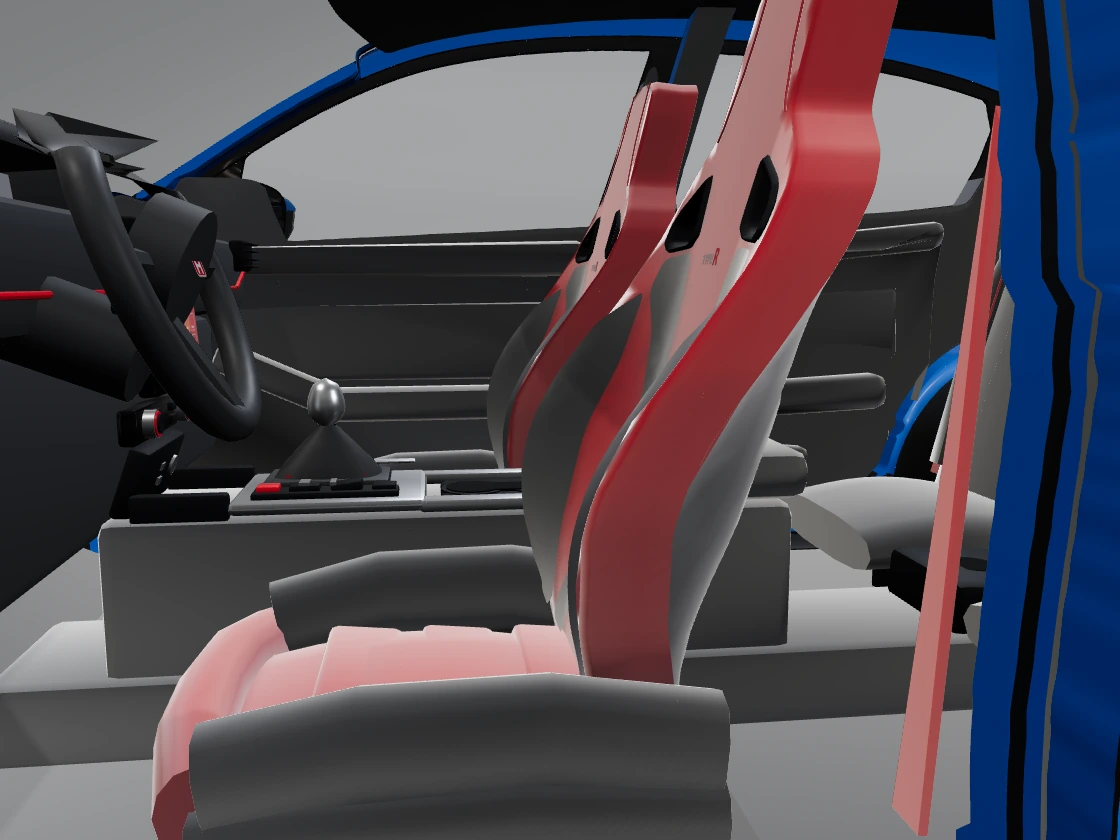
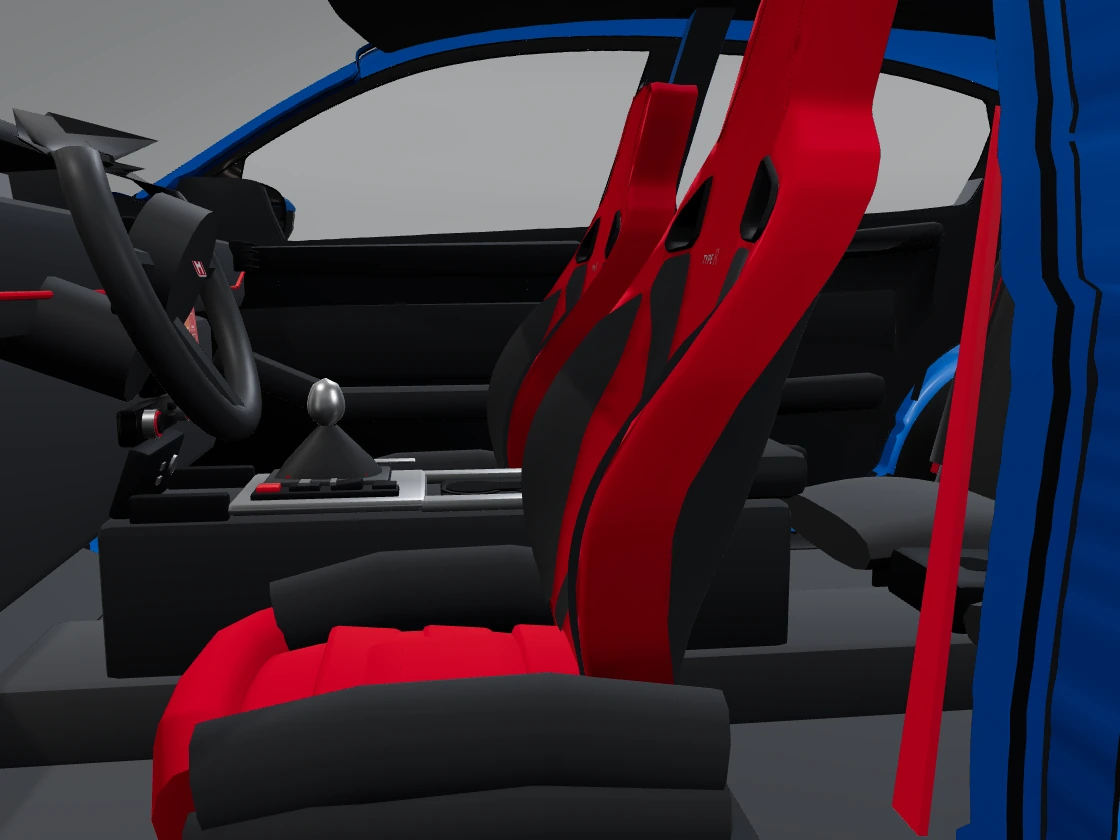
Render dyed cabin fabrics without a silver sheen

diff --git a/honda-civic-type-r/frame-by-frame/index.html b/honda-civic-type-r/frame-by-frame/index.html
@@ -22,7 +22,7 @@
       <img src="frames/fk8-official-01-photo.webp?v=fc7de6fc42" alt="Frame 01 · driver’s side profile, official Honda render" width="1120" height="560" loading="eager" decoding="async">
       <img class="shape-trace" data-src="frames/fk8-official-01-shape.webp?v=72159e95e9" alt="" width="1120" height="560" decoding="async">
     </div><figcaption>American Honda Motor Co. · official 2020 Civic Type R 360° colour-selector render</figcaption></figure>
-    <figure><div class="image-layer"><img src="frames/fk8-official-01-model.webp?v=efb745bb9e" alt="Frame 01 · driver’s side profile, rendered 3D model" width="1120" height="560" loading="eager" decoding="async"></div><figcaption>3D model</figcaption></figure>
+    <figure><div class="image-layer"><img src="frames/fk8-official-01-model.webp?v=b8bf8a8692" alt="Frame 01 · driver’s side profile, rendered 3D model" width="1120" height="560" loading="eager" decoding="async"></div><figcaption>3D model</figcaption></figure>
   </div>
   <label class="trace-control">Outline opacity <input type="range" min="0" max="100" value="85" aria-label="Frame 01 · driver’s side profile, outline opacity"></label>
   <label class="wiper">Photo <input type="range" min="0" max="100" value="50" aria-label="Frame 01 · driver’s side profile, photo and model divider"> 3D</label>
@@ -36,7 +36,7 @@
       <img src="frames/fk8-official-04-photo.webp?v=e36776add0" alt="Frame 04 · front left, 60° off the nose, official Honda render" width="1120" height="560" loading="lazy" decoding="async">
       <img class="shape-trace" data-src="frames/fk8-official-04-shape.webp?v=e9a4180259" alt="" width="1120" height="560" decoding="async">
     </div><figcaption>American Honda Motor Co. · official 2020 Civic Type R 360° colour-selector render</figcaption></figure>
-    <figure><div class="image-layer"><img src="frames/fk8-official-04-model.webp?v=01de2f053b" alt="Frame 04 · front left, 60° off the nose, rendered 3D model" width="1120" height="560" loading="lazy" decoding="async"></div><figcaption>3D model</figcaption></figure>
+    <figure><div class="image-layer"><img src="frames/fk8-official-04-model.webp?v=2697612cb8" alt="Frame 04 · front left, 60° off the nose, rendered 3D model" width="1120" height="560" loading="lazy" decoding="async"></div><figcaption>3D model</figcaption></figure>
   </div>
   <label class="trace-control">Outline opacity <input type="range" min="0" max="100" value="85" aria-label="Frame 04 · front left, 60° off the nose, outline opacity"></label>
   <label class="wiper">Photo <input type="range" min="0" max="100" value="50" aria-label="Frame 04 · front left, 60° off the nose, photo and model divider"> 3D</label>
@@ -50,7 +50,7 @@
       <img src="frames/fk8-official-07-photo.webp?v=91f0c80036" alt="Frame 07 · front left, 30° off the nose, official Honda render" width="1120" height="560" loading="lazy" decoding="async">
       <img class="shape-trace" data-src="frames/fk8-official-07-shape.webp?v=7ac9de474a" alt="" width="1120" height="560" decoding="async">
     </div><figcaption>American Honda Motor Co. · official 2020 Civic Type R 360° colour-selector render</figcaption></figure>
-    <figure><div class="image-layer"><img src="frames/fk8-official-07-model.webp?v=65e428767f" alt="Frame 07 · front left, 30° off the nose, rendered 3D model" width="1120" height="560" loading="lazy" decoding="async"></div><figcaption>3D model</figcaption></figure>
+    <figure><div class="image-layer"><img src="frames/fk8-official-07-model.webp?v=e6e1c852ce" alt="Frame 07 · front left, 30° off the nose, rendered 3D model" width="1120" height="560" loading="lazy" decoding="async"></div><figcaption>3D model</figcaption></figure>
   </div>
   <label class="trace-control">Outline opacity <input type="range" min="0" max="100" value="85" aria-label="Frame 07 · front left, 30° off the nose, outline opacity"></label>
   <label class="wiper">Photo <input type="range" min="0" max="100" value="50" aria-label="Frame 07 · front left, 30° off the nose, photo and model divider"> 3D</label>
@@ -64,7 +64,7 @@
       <img src="frames/fk8-official-10-photo.webp?v=ff2277c011" alt="Frame 10 · front, straight on, official Honda render" width="1120" height="560" loading="lazy" decoding="async">
       <img class="shape-trace" data-src="frames/fk8-official-10-shape.webp?v=22e574aa09" alt="" width="1120" height="560" decoding="async">
     </div><figcaption>American Honda Motor Co. · official 2020 Civic Type R 360° colour-selector render</figcaption></figure>
-    <figure><div class="image-layer"><img src="frames/fk8-official-10-model.webp?v=7e71341dc1" alt="Frame 10 · front, straight on, rendered 3D model" width="1120" height="560" loading="lazy" decoding="async"></div><figcaption>3D model</figcaption></figure>
+    <figure><div class="image-layer"><img src="frames/fk8-official-10-model.webp?v=e256ae9ad0" alt="Frame 10 · front, straight on, rendered 3D model" width="1120" height="560" loading="lazy" decoding="async"></div><figcaption>3D model</figcaption></figure>
   </div>
   <label class="trace-control">Outline opacity <input type="range" min="0" max="100" value="85" aria-label="Frame 10 · front, straight on, outline opacity"></label>
   <label class="wiper">Photo <input type="range" min="0" max="100" value="50" aria-label="Frame 10 · front, straight on, photo and model divider"> 3D</label>
@@ -78,7 +78,7 @@
       <img src="frames/fk8-official-13-photo.webp?v=5ecab79dd4" alt="Frame 13 · front right, 30° off the nose, official Honda render" width="1120" height="560" loading="lazy" decoding="async">
       <img class="shape-trace" data-src="frames/fk8-official-13-shape.webp?v=3c9de5ecaf" alt="" width="1120" height="560" decoding="async">
     </div><figcaption>American Honda Motor Co. · official 2020 Civic Type R 360° colour-selector render</figcaption></figure>
-    <figure><div class="image-layer"><img src="frames/fk8-official-13-model.webp?v=fa6331ae15" alt="Frame 13 · front right, 30° off the nose, rendered 3D model" width="1120" height="560" loading="lazy" decoding="async"></div><figcaption>3D model</figcaption></figure>
+    <figure><div class="image-layer"><img src="frames/fk8-official-13-model.webp?v=671c4fb681" alt="Frame 13 · front right, 30° off the nose, rendered 3D model" width="1120" height="560" loading="lazy" decoding="async"></div><figcaption>3D model</figcaption></figure>
   </div>
   <label class="trace-control">Outline opacity <input type="range" min="0" max="100" value="85" aria-label="Frame 13 · front right, 30° off the nose, outline opacity"></label>
   <label class="wiper">Photo <input type="range" min="0" max="100" value="50" aria-label="Frame 13 · front right, 30° off the nose, photo and model divider"> 3D</label>
@@ -92,7 +92,7 @@
       <img src="frames/fk8-official-16-photo.webp?v=ea4f9e4f2a" alt="Frame 16 · front right, 60° off the nose, official Honda render" width="1120" height="560" loading="lazy" decoding="async">
       <img class="shape-trace" data-src="frames/fk8-official-16-shape.webp?v=6ea3d7f74c" alt="" width="1120" height="560" decoding="async">
     </div><figcaption>American Honda Motor Co. · official 2020 Civic Type R 360° colour-selector render</figcaption></figure>
-    <figure><div class="image-layer"><img src="frames/fk8-official-16-model.webp?v=d379379cc8" alt="Frame 16 · front right, 60° off the nose, rendered 3D model" width="1120" height="560" loading="lazy" decoding="async"></div><figcaption>3D model</figcaption></figure>
+    <figure><div class="image-layer"><img src="frames/fk8-official-16-model.webp?v=81453965b5" alt="Frame 16 · front right, 60° off the nose, rendered 3D model" width="1120" height="560" loading="lazy" decoding="async"></div><figcaption>3D model</figcaption></figure>
   </div>
   <label class="trace-control">Outline opacity <input type="range" min="0" max="100" value="85" aria-label="Frame 16 · front right, 60° off the nose, outline opacity"></label>
   <label class="wiper">Photo <input type="range" min="0" max="100" value="50" aria-label="Frame 16 · front right, 60° off the nose, photo and model divider"> 3D</label>
@@ -106,7 +106,7 @@
       <img src="frames/fk8-official-19-photo.webp?v=60b1907b2c" alt="Frame 19 · passenger side profile, official Honda render" width="1120" height="560" loading="lazy" decoding="async">
       <img class="shape-trace" data-src="frames/fk8-official-19-shape.webp?v=6c9c6546f9" alt="" width="1120" height="560" decoding="async">
     </div><figcaption>American Honda Motor Co. · official 2020 Civic Type R 360° colour-selector render</figcaption></figure>
-    <figure><div class="image-layer"><img src="frames/fk8-official-19-model.webp?v=222b868ff6" alt="Frame 19 · passenger side profile, rendered 3D model" width="1120" height="560" loading="lazy" decoding="async"></div><figcaption>3D model</figcaption></figure>
+    <figure><div class="image-layer"><img src="frames/fk8-official-19-model.webp?v=7a161a5f46" alt="Frame 19 · passenger side profile, rendered 3D model" width="1120" height="560" loading="lazy" decoding="async"></div><figcaption>3D model</figcaption></figure>
   </div>
   <label class="trace-control">Outline opacity <input type="range" min="0" max="100" value="85" aria-label="Frame 19 · passenger side profile, outline opacity"></label>
   <label class="wiper">Photo <input type="range" min="0" max="100" value="50" aria-label="Frame 19 · passenger side profile, photo and model divider"> 3D</label>
@@ -120,7 +120,7 @@
       <img src="frames/fk8-official-22-photo.webp?v=9a2819bbbd" alt="Frame 22 · rear right, 60° off the tail, official Honda render" width="1120" height="560" loading="lazy" decoding="async">
       <img class="shape-trace" data-src="frames/fk8-official-22-shape.webp?v=d86de3a873" alt="" width="1120" height="560" decoding="async">
     </div><figcaption>American Honda Motor Co. · official 2020 Civic Type R 360° colour-selector render</figcaption></figure>
-    <figure><div class="image-layer"><img src="frames/fk8-official-22-model.webp?v=5fb09a5462" alt="Frame 22 · rear right, 60° off the tail, rendered 3D model" width="1120" height="560" loading="lazy" decoding="async"></div><figcaption>3D model</figcaption></figure>
+    <figure><div class="image-layer"><img src="frames/fk8-official-22-model.webp?v=64fe6420c2" alt="Frame 22 · rear right, 60° off the tail, rendered 3D model" width="1120" height="560" loading="lazy" decoding="async"></div><figcaption>3D model</figcaption></figure>
   </div>
   <label class="trace-control">Outline opacity <input type="range" min="0" max="100" value="85" aria-label="Frame 22 · rear right, 60° off the tail, outline opacity"></label>
   <label class="wiper">Photo <input type="range" min="0" max="100" value="50" aria-label="Frame 22 · rear right, 60° off the tail, photo and model divider"> 3D</label>
@@ -134,7 +134,7 @@
       <img src="frames/fk8-official-25-photo.webp?v=8dde5f4c76" alt="Frame 25 · rear right, 30° off the tail, official Honda render" width="1120" height="560" loading="lazy" decoding="async">
       <img class="shape-trace" data-src="frames/fk8-official-25-shape.webp?v=1afd9d18cb" alt="" width="1120" height="560" decoding="async">
     </div><figcaption>American Honda Motor Co. · official 2020 Civic Type R 360° colour-selector render</figcaption></figure>
-    <figure><div class="image-layer"><img src="frames/fk8-official-25-model.webp?v=df4f82182a" alt="Frame 25 · rear right, 30° off the tail, rendered 3D model" width="1120" height="560" loading="lazy" decoding="async"></div><figcaption>3D model</figcaption></figure>
+    <figure><div class="image-layer"><img src="frames/fk8-official-25-model.webp?v=3514409629" alt="Frame 25 · rear right, 30° off the tail, rendered 3D model" width="1120" height="560" loading="lazy" decoding="async"></div><figcaption>3D model</figcaption></figure>
   </div>
   <label class="trace-control">Outline opacity <input type="range" min="0" max="100" value="85" aria-label="Frame 25 · rear right, 30° off the tail, outline opacity"></label>
   <label class="wiper">Photo <input type="range" min="0" max="100" value="50" aria-label="Frame 25 · rear right, 30° off the tail, photo and model divider"> 3D</label>
@@ -148,7 +148,7 @@
       <img src="frames/fk8-official-28-photo.webp?v=dba3b38572" alt="Frame 28 · rear, straight on, official Honda render" width="1120" height="560" loading="lazy" decoding="async">
       <img class="shape-trace" data-src="frames/fk8-official-28-shape.webp?v=6dd25deb65" alt="" width="1120" height="560" decoding="async">
     </div><figcaption>American Honda Motor Co. · official 2020 Civic Type R 360° colour-selector render</figcaption></figure>
-    <figure><div class="image-layer"><img src="frames/fk8-official-28-model.webp?v=8ae12fa9ef" alt="Frame 28 · rear, straight on, rendered 3D model" width="1120" height="560" loading="lazy" decoding="async"></div><figcaption>3D model</figcaption></figure>
+    <figure><div class="image-layer"><img src="frames/fk8-official-28-model.webp?v=d85f13e35c" alt="Frame 28 · rear, straight on, rendered 3D model" width="1120" height="560" loading="lazy" decoding="async"></div><figcaption>3D model</figcaption></figure>
   </div>
   <label class="trace-control">Outline opacity <input type="range" min="0" max="100" value="85" aria-label="Frame 28 · rear, straight on, outline opacity"></label>
   <label class="wiper">Photo <input type="range" min="0" max="100" value="50" aria-label="Frame 28 · rear, straight on, photo and model divider"> 3D</label>
@@ -162,7 +162,7 @@
       <img src="frames/fk8-official-31-photo.webp?v=5465db0a23" alt="Frame 31 · rear left, 30° off the tail, official Honda render" width="1120" height="560" loading="lazy" decoding="async">
       <img class="shape-trace" data-src="frames/fk8-official-31-shape.webp?v=278a184907" alt="" width="1120" height="560" decoding="async">
     </div><figcaption>American Honda Motor Co. · official 2020 Civic Type R 360° colour-selector render</figcaption></figure>
-    <figure><div class="image-layer"><img src="frames/fk8-official-31-model.webp?v=72e10865dd" alt="Frame 31 · rear left, 30° off the tail, rendered 3D model" width="1120" height="560" loading="lazy" decoding="async"></div><figcaption>3D model</figcaption></figure>
+    <figure><div class="image-layer"><img src="frames/fk8-official-31-model.webp?v=160639b4a7" alt="Frame 31 · rear left, 30° off the tail, rendered 3D model" width="1120" height="560" loading="lazy" decoding="async"></div><figcaption>3D model</figcaption></figure>
   </div>
   <label class="trace-control">Outline opacity <input type="range" min="0" max="100" value="85" aria-label="Frame 31 · rear left, 30° off the tail, outline opacity"></label>
   <label class="wiper">Photo <input type="range" min="0" max="100" value="50" aria-label="Frame 31 · rear left, 30° off the tail, photo and model divider"> 3D</label>
@@ -176,7 +176,7 @@
       <img src="frames/fk8-official-34-photo.webp?v=a8928f379c" alt="Frame 34 · rear left, 60° off the tail, official Honda render" width="1120" height="560" loading="lazy" decoding="async">
       <img class="shape-trace" data-src="frames/fk8-official-34-shape.webp?v=fc0c7e183c" alt="" width="1120" height="560" decoding="async">
     </div><figcaption>American Honda Motor Co. · official 2020 Civic Type R 360° colour-selector render</figcaption></figure>
-    <figure><div class="image-layer"><img src="frames/fk8-official-34-model.webp?v=1d077f6965" alt="Frame 34 · rear left, 60° off the tail, rendered 3D model" width="1120" height="560" loading="lazy" decoding="async"></div><figcaption>3D model</figcaption></figure>
+    <figure><div class="image-layer"><img src="frames/fk8-official-34-model.webp?v=4339885726" alt="Frame 34 · rear left, 60° off the tail, rendered 3D model" width="1120" height="560" loading="lazy" decoding="async"></div><figcaption>3D model</figcaption></figure>
   </div>
   <label class="trace-control">Outline opacity <input type="range" min="0" max="100" value="85" aria-label="Frame 34 · rear left, 60° off the tail, outline opacity"></label>
   <label class="wiper">Photo <input type="range" min="0" max="100" value="50" aria-label="Frame 34 · rear left, 60° off the tail, photo and model divider"> 3D</label>
@@ -190,7 +190,7 @@
       <img src="frames/fk8-official-10-front-fascia-photo.webp?v=54d767c311" alt="Front bumper and grille (frame 10), official Honda render" width="500" height="280" loading="lazy" decoding="async">
       <img class="shape-trace" data-src="frames/fk8-official-10-front-fascia-shape.webp?v=3b44c5099e" alt="" width="500" height="280" decoding="async">
     </div><figcaption>American Honda Motor Co. · official 2020 Civic Type R 360° colour-selector render</figcaption></figure>
-    <figure><div class="image-layer"><img src="frames/fk8-official-10-front-fascia-model.webp?v=f0503ae387" alt="Front bumper and grille (frame 10), rendered 3D model" width="500" height="280" loading="lazy" decoding="async"></div><figcaption>3D model</figcaption></figure>
+    <figure><div class="image-layer"><img src="frames/fk8-official-10-front-fascia-model.webp?v=0e133ebbdd" alt="Front bumper and grille (frame 10), rendered 3D model" width="500" height="280" loading="lazy" decoding="async"></div><figcaption>3D model</figcaption></figure>
   </div>
   <label class="trace-control">Outline opacity <input type="range" min="0" max="100" value="85" aria-label="Front bumper and grille (frame 10), outline opacity"></label>
   <label class="wiper">Photo <input type="range" min="0" max="100" value="50" aria-label="Front bumper and grille (frame 10), photo and model divider"> 3D</label>
@@ -204,7 +204,7 @@
       <img src="frames/fk8-official-07-front-corner-photo.webp?v=990b7071b3" alt="Front left corner (frame 07), official Honda render" width="432" height="270" loading="lazy" decoding="async">
       <img class="shape-trace" data-src="frames/fk8-official-07-front-corner-shape.webp?v=edc3f0114a" alt="" width="432" height="270" decoding="async">
     </div><figcaption>American Honda Motor Co. · official 2020 Civic Type R 360° colour-selector render</figcaption></figure>
-    <figure><div class="image-layer"><img src="frames/fk8-official-07-front-corner-model.webp?v=44a165a554" alt="Front left corner (frame 07), rendered 3D model" width="432" height="270" loading="lazy" decoding="async"></div><figcaption>3D model</figcaption></figure>
+    <figure><div class="image-layer"><img src="frames/fk8-official-07-front-corner-model.webp?v=a8e1c9b9b9" alt="Front left corner (frame 07), rendered 3D model" width="432" height="270" loading="lazy" decoding="async"></div><figcaption>3D model</figcaption></figure>
   </div>
   <label class="trace-control">Outline opacity <input type="range" min="0" max="100" value="85" aria-label="Front left corner (frame 07), outline opacity"></label>
   <label class="wiper">Photo <input type="range" min="0" max="100" value="50" aria-label="Front left corner (frame 07), photo and model divider"> 3D</label>
@@ -218,7 +218,7 @@
       <img src="frames/fk8-official-01-front-wheel-photo.webp?v=d8915bfced" alt="Front wheel and brake (frame 01), official Honda render" width="336" height="210" loading="lazy" decoding="async">
       <img class="shape-trace" data-src="frames/fk8-official-01-front-wheel-shape.webp?v=eb18044a56" alt="" width="336" height="210" decoding="async">
     </div><figcaption>American Honda Motor Co. · official 2020 Civic Type R 360° colour-selector render</figcaption></figure>
-    <figure><div class="image-layer"><img src="frames/fk8-official-01-front-wheel-model.webp?v=9c4ad88ee2" alt="Front wheel and brake (frame 01), rendered 3D model" width="336" height="210" loading="lazy" decoding="async"></div><figcaption>3D model</figcaption></figure>
+    <figure><div class="image-layer"><img src="frames/fk8-official-01-front-wheel-model.webp?v=26f213687b" alt="Front wheel and brake (frame 01), rendered 3D model" width="336" height="210" loading="lazy" decoding="async"></div><figcaption>3D model</figcaption></figure>
   </div>
   <label class="trace-control">Outline opacity <input type="range" min="0" max="100" value="85" aria-label="Front wheel and brake (frame 01), outline opacity"></label>
   <label class="wiper">Photo <input type="range" min="0" max="100" value="50" aria-label="Front wheel and brake (frame 01), photo and model divider"> 3D</label>
@@ -232,7 +232,7 @@
       <img src="frames/fk8-official-01-rear-wing-photo.webp?v=ce8770edd2" alt="Wing, fuel flap and taillamp from the side (frame 01), official Honda render" width="352" height="220" loading="lazy" decoding="async">
       <img class="shape-trace" data-src="frames/fk8-official-01-rear-wing-shape.webp?v=f925bea52b" alt="" width="352" height="220" decoding="async">
     </div><figcaption>American Honda Motor Co. · official 2020 Civic Type R 360° colour-selector render</figcaption></figure>
-    <figure><div class="image-layer"><img src="frames/fk8-official-01-rear-wing-model.webp?v=488364ae55" alt="Wing, fuel flap and taillamp from the side (frame 01), rendered 3D model" width="352" height="220" loading="lazy" decoding="async"></div><figcaption>3D model</figcaption></figure>
+    <figure><div class="image-layer"><img src="frames/fk8-official-01-rear-wing-model.webp?v=e380d7c09b" alt="Wing, fuel flap and taillamp from the side (frame 01), rendered 3D model" width="352" height="220" loading="lazy" decoding="async"></div><figcaption>3D model</figcaption></figure>
   </div>
   <label class="trace-control">Outline opacity <input type="range" min="0" max="100" value="85" aria-label="Wing, fuel flap and taillamp from the side (frame 01), outline opacity"></label>
   <label class="wiper">Photo <input type="range" min="0" max="100" value="50" aria-label="Wing, fuel flap and taillamp from the side (frame 01), photo and model divider"> 3D</label>
@@ -246,7 +246,7 @@
       <img src="frames/fk8-official-24-wing-taillamp-photo.webp?v=5f85b40423" alt="Wing and right taillamp (frame 24), official Honda render" width="400" height="250" loading="lazy" decoding="async">
       <img class="shape-trace" data-src="frames/fk8-official-24-wing-taillamp-shape.webp?v=14cdfb0f77" alt="" width="400" height="250" decoding="async">
     </div><figcaption>American Honda Motor Co. · official 2020 Civic Type R 360° colour-selector render</figcaption></figure>
-    <figure><div class="image-layer"><img src="frames/fk8-official-24-wing-taillamp-model.webp?v=901a7cc640" alt="Wing and right taillamp (frame 24), rendered 3D model" width="400" height="250" loading="lazy" decoding="async"></div><figcaption>3D model</figcaption></figure>
+    <figure><div class="image-layer"><img src="frames/fk8-official-24-wing-taillamp-model.webp?v=04350c19ff" alt="Wing and right taillamp (frame 24), rendered 3D model" width="400" height="250" loading="lazy" decoding="async"></div><figcaption>3D model</figcaption></figure>
   </div>
   <label class="trace-control">Outline opacity <input type="range" min="0" max="100" value="85" aria-label="Wing and right taillamp (frame 24), outline opacity"></label>
   <label class="wiper">Photo <input type="range" min="0" max="100" value="50" aria-label="Wing and right taillamp (frame 24), photo and model divider"> 3D</label>
@@ -260,7 +260,7 @@
       <img src="frames/fk8-official-28-rear-fascia-photo.webp?v=a194a433c9" alt="Rear bumper, diffuser and tailpipes (frame 28), official Honda render" width="500" height="280" loading="lazy" decoding="async">
       <img class="shape-trace" data-src="frames/fk8-official-28-rear-fascia-shape.webp?v=764cfe4578" alt="" width="500" height="280" decoding="async">
     </div><figcaption>American Honda Motor Co. · official 2020 Civic Type R 360° colour-selector render</figcaption></figure>
-    <figure><div class="image-layer"><img src="frames/fk8-official-28-rear-fascia-model.webp?v=2b55eadb3b" alt="Rear bumper, diffuser and tailpipes (frame 28), rendered 3D model" width="500" height="280" loading="lazy" decoding="async"></div><figcaption>3D model</figcaption></figure>
+    <figure><div class="image-layer"><img src="frames/fk8-official-28-rear-fascia-model.webp?v=3fb10191db" alt="Rear bumper, diffuser and tailpipes (frame 28), rendered 3D model" width="500" height="280" loading="lazy" decoding="async"></div><figcaption>3D model</figcaption></figure>
   </div>
   <label class="trace-control">Outline opacity <input type="range" min="0" max="100" value="85" aria-label="Rear bumper, diffuser and tailpipes (frame 28), outline opacity"></label>
   <label class="wiper">Photo <input type="range" min="0" max="100" value="50" aria-label="Rear bumper, diffuser and tailpipes (frame 28), photo and model divider"> 3D</label>
@@ -276,7 +276,7 @@
       <img src="frames/fk8-driver-seat-photo.webp?v=e5f7fadac0" alt="Driver’s seat and bolsters, reference photograph" width="1120" height="840" loading="lazy" decoding="async" referrerpolicy="no-referrer">
       <img class="shape-trace" data-src="frames/fk8-driver-seat-shape.webp?v=9b434f32a7" alt="" width="1120" height="840" decoding="async">
     </div><figcaption>mbheritage · Bring a Trailer lot 163,254</figcaption></figure>
-    <figure><div class="image-layer"><img src="frames/fk8-driver-seat-model.webp?v=f0942fc648" alt="Driver’s seat and bolsters, rendered 3D model" width="1120" height="840" loading="lazy" decoding="async"></div><figcaption>3D model</figcaption></figure>
+    <figure><div class="image-layer"><img src="frames/fk8-driver-seat-model.webp?v=d4036d28b0" alt="Driver’s seat and bolsters, rendered 3D model" width="1120" height="840" loading="lazy" decoding="async"></div><figcaption>3D model</figcaption></figure>
   </div>
   <label class="trace-control">Outline opacity <input type="range" min="0" max="100" value="85" aria-label="Driver’s seat and bolsters, outline opacity"></label>
   <label class="wiper">Photo <input type="range" min="0" max="100" value="50" aria-label="Driver’s seat and bolsters, photo and model divider"> 3D</label>
@@ -290,7 +290,7 @@
       <img src="frames/fk8-dashboard-photo.webp?v=7c41434910" alt="Dashboard from the passenger side, reference photograph" width="1120" height="840" loading="lazy" decoding="async" referrerpolicy="no-referrer">
       <img class="shape-trace" data-src="frames/fk8-dashboard-shape.webp?v=5147e409bf" alt="" width="1120" height="840" decoding="async">
     </div><figcaption>mbheritage · Bring a Trailer lot 163,254</figcaption></figure>
-    <figure><div class="image-layer"><img src="frames/fk8-dashboard-model.webp?v=f5cbf97549" alt="Dashboard from the passenger side, rendered 3D model" width="1120" height="840" loading="lazy" decoding="async"></div><figcaption>3D model</figcaption></figure>
+    <figure><div class="image-layer"><img src="frames/fk8-dashboard-model.webp?v=f83c27816d" alt="Dashboard from the passenger side, rendered 3D model" width="1120" height="840" loading="lazy" decoding="async"></div><figcaption>3D model</figcaption></figure>
   </div>
   <label class="trace-control">Outline opacity <input type="range" min="0" max="100" value="85" aria-label="Dashboard from the passenger side, outline opacity"></label>
   <label class="wiper">Photo <input type="range" min="0" max="100" value="50" aria-label="Dashboard from the passenger side, photo and model divider"> 3D</label>
@@ -304,7 +304,7 @@
       <img src="frames/fk8-steering-photo.webp?v=ad62eb0cbc" alt="Steering wheel and instrument panel, reference photograph" width="1120" height="840" loading="lazy" decoding="async" referrerpolicy="no-referrer">
       <img class="shape-trace" data-src="frames/fk8-steering-shape.webp?v=e616a40411" alt="" width="1120" height="840" decoding="async">
     </div><figcaption>mbheritage · Bring a Trailer lot 163,254</figcaption></figure>
-    <figure><div class="image-layer"><img src="frames/fk8-steering-model.webp?v=d2c8e5e296" alt="Steering wheel and instrument panel, rendered 3D model" width="1120" height="840" loading="lazy" decoding="async"></div><figcaption>3D model</figcaption></figure>
+    <figure><div class="image-layer"><img src="frames/fk8-steering-model.webp?v=3070e9a083" alt="Steering wheel and instrument panel, rendered 3D model" width="1120" height="840" loading="lazy" decoding="async"></div><figcaption>3D model</figcaption></figure>
   </div>
   <label class="trace-control">Outline opacity <input type="range" min="0" max="100" value="85" aria-label="Steering wheel and instrument panel, outline opacity"></label>
   <label class="wiper">Photo <input type="range" min="0" max="100" value="50" aria-label="Steering wheel and instrument panel, photo and model divider"> 3D</label>
@@ -318,7 +318,7 @@
       <img src="frames/fk8-center-vents-photo.webp?v=248ec95057" alt="Centre vents and display, reference photograph" width="1120" height="840" loading="lazy" decoding="async" referrerpolicy="no-referrer">
       <img class="shape-trace" data-src="frames/fk8-center-vents-shape.webp?v=149488279a" alt="" width="1120" height="840" decoding="async">
     </div><figcaption>mbheritage · Bring a Trailer lot 163,254</figcaption></figure>
-    <figure><div class="image-layer"><img src="frames/fk8-center-vents-model.webp?v=94ac77ae22" alt="Centre vents and display, rendered 3D model" width="1120" height="840" loading="lazy" decoding="async"></div><figcaption>3D model</figcaption></figure>
+    <figure><div class="image-layer"><img src="frames/fk8-center-vents-model.webp?v=bc273b5bb6" alt="Centre vents and display, rendered 3D model" width="1120" height="840" loading="lazy" decoding="async"></div><figcaption>3D model</figcaption></figure>
   </div>
   <label class="trace-control">Outline opacity <input type="range" min="0" max="100" value="85" aria-label="Centre vents and display, outline opacity"></label>
   <label class="wiper">Photo <input type="range" min="0" max="100" value="50" aria-label="Centre vents and display, photo and model divider"> 3D</label>
@@ -332,7 +332,7 @@
       <img src="frames/fk8-shifter-photo.webp?v=db67e7a7e4" alt="Aluminium shifter and console, reference photograph" width="1120" height="840" loading="lazy" decoding="async" referrerpolicy="no-referrer">
       <img class="shape-trace" data-src="frames/fk8-shifter-shape.webp?v=2fa431022f" alt="" width="1120" height="840" decoding="async">
     </div><figcaption>mbheritage · Bring a Trailer lot 163,254</figcaption></figure>
-    <figure><div class="image-layer"><img src="frames/fk8-shifter-model.webp?v=a68370cada" alt="Aluminium shifter and console, rendered 3D model" width="1120" height="840" loading="lazy" decoding="async"></div><figcaption>3D model</figcaption></figure>
+    <figure><div class="image-layer"><img src="frames/fk8-shifter-model.webp?v=055c6a58b2" alt="Aluminium shifter and console, rendered 3D model" width="1120" height="840" loading="lazy" decoding="async"></div><figcaption>3D model</figcaption></figure>
   </div>
   <label class="trace-control">Outline opacity <input type="range" min="0" max="100" value="85" aria-label="Aluminium shifter and console, outline opacity"></label>
   <label class="wiper">Photo <input type="range" min="0" max="100" value="50" aria-label="Aluminium shifter and console, photo and model divider"> 3D</label>
@@ -346,7 +346,7 @@
       <img src="frames/fk8-rear-seats-photo.webp?v=96e259ecfb" alt="Rear seats, reference photograph" width="1120" height="840" loading="lazy" decoding="async" referrerpolicy="no-referrer">
       <img class="shape-trace" data-src="frames/fk8-rear-seats-shape.webp?v=7a07c0cbf2" alt="" width="1120" height="840" decoding="async">
     </div><figcaption>mbheritage · Bring a Trailer lot 163,254</figcaption></figure>
-    <figure><div class="image-layer"><img src="frames/fk8-rear-seats-model.webp?v=e246148a57" alt="Rear seats, rendered 3D model" width="1120" height="840" loading="lazy" decoding="async"></div><figcaption>3D model</figcaption></figure>
+    <figure><div class="image-layer"><img src="frames/fk8-rear-seats-model.webp?v=b7e021d1cb" alt="Rear seats, rendered 3D model" width="1120" height="840" loading="lazy" decoding="async"></div><figcaption>3D model</figcaption></figure>
   </div>
   <label class="trace-control">Outline opacity <input type="range" min="0" max="100" value="85" aria-label="Rear seats, outline opacity"></label>
   <label class="wiper">Photo <input type="range" min="0" max="100" value="50" aria-label="Rear seats, photo and model divider"> 3D</label>
@@ -360,7 +360,7 @@
       <img src="frames/fk8-cargo-photo.webp?v=a4a994d7f1" alt="Luggage compartment, reference photograph" width="1120" height="840" loading="lazy" decoding="async" referrerpolicy="no-referrer">
       <img class="shape-trace" data-src="frames/fk8-cargo-shape.webp?v=427fdfcaa6" alt="" width="1120" height="840" decoding="async">
     </div><figcaption>mbheritage · Bring a Trailer lot 163,254</figcaption></figure>
-    <figure><div class="image-layer"><img src="frames/fk8-cargo-model.webp?v=b5a526a500" alt="Luggage compartment, rendered 3D model" width="1120" height="840" loading="lazy" decoding="async"></div><figcaption>3D model</figcaption></figure>
+    <figure><div class="image-layer"><img src="frames/fk8-cargo-model.webp?v=63bb7ae557" alt="Luggage compartment, rendered 3D model" width="1120" height="840" loading="lazy" decoding="async"></div><figcaption>3D model</figcaption></figure>
   </div>
   <label class="trace-control">Outline opacity <input type="range" min="0" max="100" value="85" aria-label="Luggage compartment, outline opacity"></label>
   <label class="wiper">Photo <input type="range" min="0" max="100" value="50" aria-label="Luggage compartment, photo and model divider"> 3D</label>
@@ -376,7 +376,7 @@
       <img src="frames/fk8-engine-bay-photo.webp?v=6e0add8634" alt="Open hood and K20C1 engine bay, reference photograph" width="1120" height="840" loading="lazy" decoding="async" referrerpolicy="no-referrer">
       <img class="shape-trace" data-src="frames/fk8-engine-bay-shape.webp?v=20c96627f7" alt="" width="1120" height="840" decoding="async">
     </div><figcaption>mbheritage · Bring a Trailer lot 163,254</figcaption></figure>
-    <figure><div class="image-layer"><img src="frames/fk8-engine-bay-model.webp?v=1dc0b68dbf" alt="Open hood and K20C1 engine bay, rendered 3D model" width="1120" height="840" loading="lazy" decoding="async"></div><figcaption>3D model</figcaption></figure>
+    <figure><div class="image-layer"><img src="frames/fk8-engine-bay-model.webp?v=416600ab8c" alt="Open hood and K20C1 engine bay, rendered 3D model" width="1120" height="840" loading="lazy" decoding="async"></div><figcaption>3D model</figcaption></figure>
   </div>
   <label class="trace-control">Outline opacity <input type="range" min="0" max="100" value="85" aria-label="Open hood and K20C1 engine bay, outline opacity"></label>
   <label class="wiper">Photo <input type="range" min="0" max="100" value="50" aria-label="Open hood and K20C1 engine bay, photo and model divider"> 3D</label>
@@ -390,7 +390,7 @@
       <img src="frames/fk8-valve-cover-photo.webp?v=3a38ed1fbf" alt="Red Honda valve cover, reference photograph" width="1120" height="840" loading="lazy" decoding="async" referrerpolicy="no-referrer">
       <img class="shape-trace" data-src="frames/fk8-valve-cover-shape.webp?v=c650e25ac8" alt="" width="1120" height="840" decoding="async">
     </div><figcaption>mbheritage · Bring a Trailer lot 163,254</figcaption></figure>
-    <figure><div class="image-layer"><img src="frames/fk8-valve-cover-model.webp?v=43c1282b0f" alt="Red Honda valve cover, rendered 3D model" width="1120" height="840" loading="lazy" decoding="async"></div><figcaption>3D model</figcaption></figure>
+    <figure><div class="image-layer"><img src="frames/fk8-valve-cover-model.webp?v=abaafdfb69" alt="Red Honda valve cover, rendered 3D model" width="1120" height="840" loading="lazy" decoding="async"></div><figcaption>3D model</figcaption></figure>
   </div>
   <label class="trace-control">Outline opacity <input type="range" min="0" max="100" value="85" aria-label="Red Honda valve cover, outline opacity"></label>
   <label class="wiper">Photo <input type="range" min="0" max="100" value="50" aria-label="Red Honda valve cover, photo and model divider"> 3D</label>
@@ -404,7 +404,7 @@
       <img src="frames/fk8-diffuser-low-photo.webp?v=b09c6aa31c" alt="Exhaust and diffuser from below, reference photograph" width="1120" height="747" loading="lazy" decoding="async" referrerpolicy="no-referrer">
       <img class="shape-trace" data-src="frames/fk8-diffuser-low-shape.webp?v=2fc0dceeae" alt="" width="1120" height="747" decoding="async">
     </div><figcaption>Sonic203 · Bring a Trailer lot 111,995</figcaption></figure>
-    <figure><div class="image-layer"><img src="frames/fk8-diffuser-low-model.webp?v=0d43e630a0" alt="Exhaust and diffuser from below, rendered 3D model" width="1120" height="747" loading="lazy" decoding="async"></div><figcaption>3D model</figcaption></figure>
+    <figure><div class="image-layer"><img src="frames/fk8-diffuser-low-model.webp?v=a09294465e" alt="Exhaust and diffuser from below, rendered 3D model" width="1120" height="747" loading="lazy" decoding="async"></div><figcaption>3D model</figcaption></figure>
   </div>
   <label class="trace-control">Outline opacity <input type="range" min="0" max="100" value="85" aria-label="Exhaust and diffuser from below, outline opacity"></label>
   <label class="wiper">Photo <input type="range" min="0" max="100" value="50" aria-label="Exhaust and diffuser from below, photo and model divider"> 3D</label>

diff --git a/honda-civic-type-r/index.html b/honda-civic-type-r/index.html
@@ -22,7 +22,7 @@
   <title>2020 Honda Civic Type R (FK8) — Boost Blue</title>
   <meta name="description" content="Explore the 2020 Honda Civic Type R (FK8) in Boost Blue. Rotate the 3D model, open the rear hatch and compare its wing, C-shaped taillights and triple exhaust with photographs." />
   <link rel="stylesheet" href="./studio.css?v=f545ff0d26">
-  <script type="module" src="./studio.js?v=0aca760127"></script>
+  <script type="module" src="./studio.js?v=f319756f6d"></script>
 </head>
 <body>
   <noscript><p style="position:fixed;inset:0;z-index:30;background:#eceeef;padding:2em">The interactive Honda Civic Type R (FK8) viewer requires JavaScript. <a href="https://bringatrailer.com/listing/2021-honda-civic-type-r-touring-5/">View the reference listing</a> or <a href="./frame-by-frame/">open the frame-by-frame photo comparison</a>.</p></noscript>
@@ -132,10 +132,10 @@
   <script type="module">
     import * as THREE from './vendor/three-r170.js?v=655c60e5';
     import { createStudioFloor } from './studio-floor.js?v=5e689b1502';
-    import { applyStudioVisibility, attachStudioVisibility, loadStudioVisibility } from './studio-visibility.js?v=1a05de5675';
+    import { applyStudioVisibility, attachStudioVisibility, loadStudioVisibility } from './studio-visibility.js?v=4983a6eba7';
     import { createPlanarMirror } from './mirror-reflection.js?v=a806e09fc7';
     import { createPaintEnvironment } from './paint-studio.js?v=c7567331f0';
-    import { DEFAULT_CAMERAS, orbitRadius, normalizeCameraPose, buildReferenceViews, loadCivicViews } from './civic-views.js?v=911cc0cd28';
+    import { DEFAULT_CAMERAS, orbitRadius, normalizeCameraPose, buildReferenceViews, loadCivicViews } from './civic-views.js?v=15c019fc20';
 
     const { GLTFLoader, DRACOLoader } = THREE;
     const MODEL_URL = modelFile;
@@ -912,7 +912,9 @@
                 : /Glass_Quarter/.test(obj.name) ? 'GQ'
                 : /Glass_Windshield/.test(obj.name) ? 'GW' : '';
               const enclosure = enclosureFor(obj);
-              const matKey = `${obj.material.uuid}|${isExterior ? (isGlass ? 'EG' : 'E') : 'I'}|${glassKind}${isHeader ? 'H' : 'S'}|${enclosure}|${inWheelWell}`;
+              // The taillights reuse the red seat material for a light guide.
+              const dyedFabric = !overrideModel && obj.material.sheen > 0 && !obj.name.startsWith('Civic_Taillamp_');
+              const matKey = `${obj.material.uuid}|${isExterior ? (isGlass ? 'EG' : 'E') : 'I'}|${glassKind}${isHeader ? 'H' : 'S'}|${enclosure}|${inWheelWell}|${dyedFabric}`;
               let shared = sharedMaterials.get(matKey);
               if (!shared) {
                 shared = obj.material.clone();
@@ -922,6 +924,8 @@
                   // Keep the fitted environment as a soft fill and coat highlight.
                   shared.envMapIntensity = paintEnvironment.scale * 0.625;
                 }
+                // Fibres reflect their dye colour at grazing angles.
+                if (dyedFabric) shared.sheenColor.multiply(shared.color);
                 const filtering = Math.min(8, renderer.capabilities.getMaxAnisotropy());
                 for (const texture of [shared.map, shared.normalMap, shared.emissiveMap, shared.roughnessMap]) {
                   if (texture) texture.anisotropy = filtering;

diff --git a/honda-civic-type-r/studio-visibility.js b/honda-civic-type-r/studio-visibility.js
@@ -64,6 +64,9 @@ export function applyStudioVisibility(material, weights) {
         reflectedLight.indirectDiffuse *= mix(0.14, 1.0, studioVisibility);
         float specularVisibility = mix(0.06, 1.0, studioVisibility);
         reflectedLight.indirectSpecular *= specularVisibility;
+        #ifdef USE_SHEEN
+          sheenSpecularIndirect *= specularVisibility;
+        #endif
         #ifdef USE_CLEARCOAT
           clearcoatSpecularIndirect *= specularVisibility;
         #endif

diff --git a/honda-civic-type-r/civic-views.js b/honda-civic-type-r/civic-views.js
@@ -1,6 +1,6 @@
 import * as THREE from './vendor/three-r170.js?v=655c60e5';
 
-export const VIEWS_URL = './civic-views.json?v=9203f1c5f4';
+export const VIEWS_URL = './civic-views.json?v=3505e5466b';
 
 // Default 1:1 metric studio cameras (glTF Y-up: +X forward, +Y up, -Z driver left, +Z passenger right).
 export const DEFAULT_CAMERAS = {

diff --git a/honda-civic-type-r/studio.js b/honda-civic-type-r/studio.js
@@ -1,4 +1,4 @@
-import { loadCivicViews } from './civic-views.js?v=911cc0cd28';
+import { loadCivicViews } from './civic-views.js?v=15c019fc20';
 
 const room = document.getElementById('photo-room');
 const photo = document.getElementById('photo');
